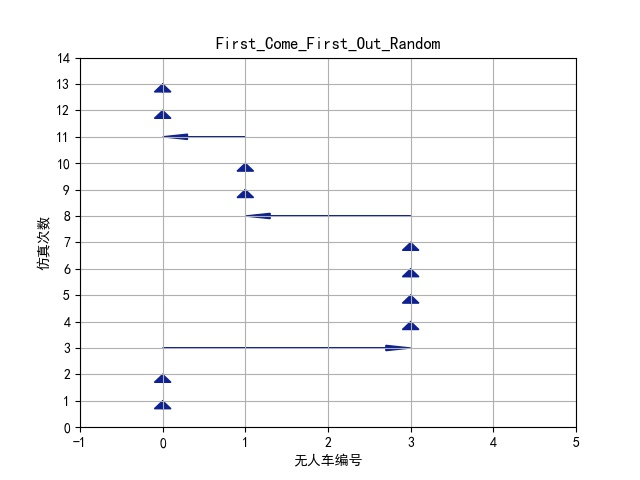
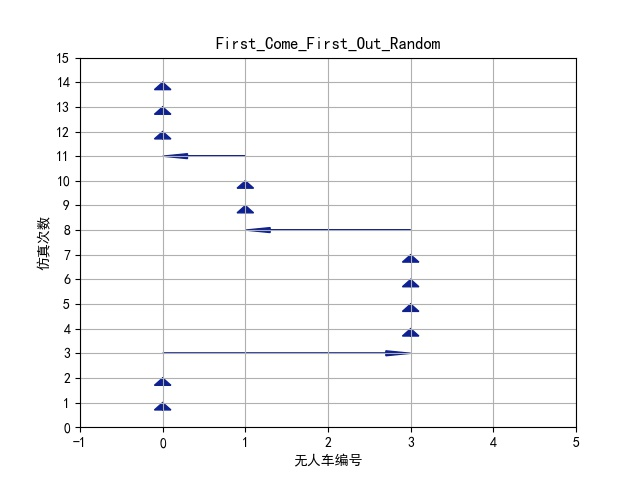
831

Changed region(s): [[0.0938, 0.1562, 0.9062, 0.8125], [0.125, 0.7812, 0.9062, 0.875], [0.0938, 0.0938, 0.125, 0.125]]

diff --git a/broker/paraTags.py b/broker/paraTags.py
@@ -16,7 +16,7 @@ class paraTags:
     distance_upper = 4 # 两辆无人车之间距离上限
     distance_lower = 2 # 两辆无人车之间距离下限
     connectivity = 0.8
-    algChoose = 6 # 算法选择
+    algChoose = 5 # 算法选择
     # **********读写路径**********
     statePath = 'Experiment_Settings/stateList.csv'
     energyPath = 'Experiment_Settings/energyList.csv'
